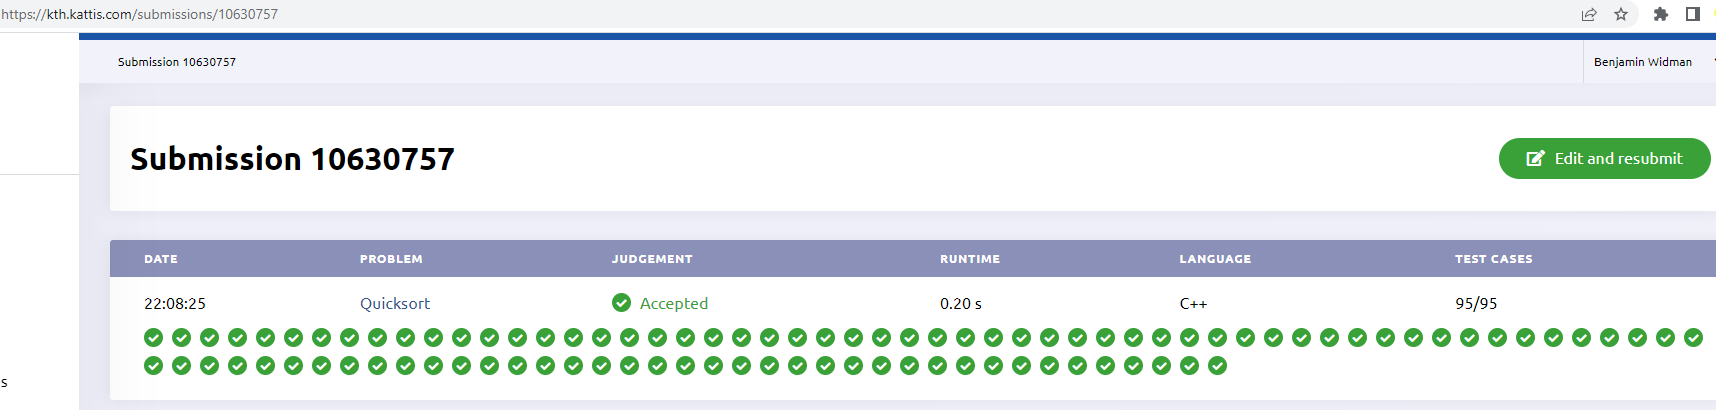
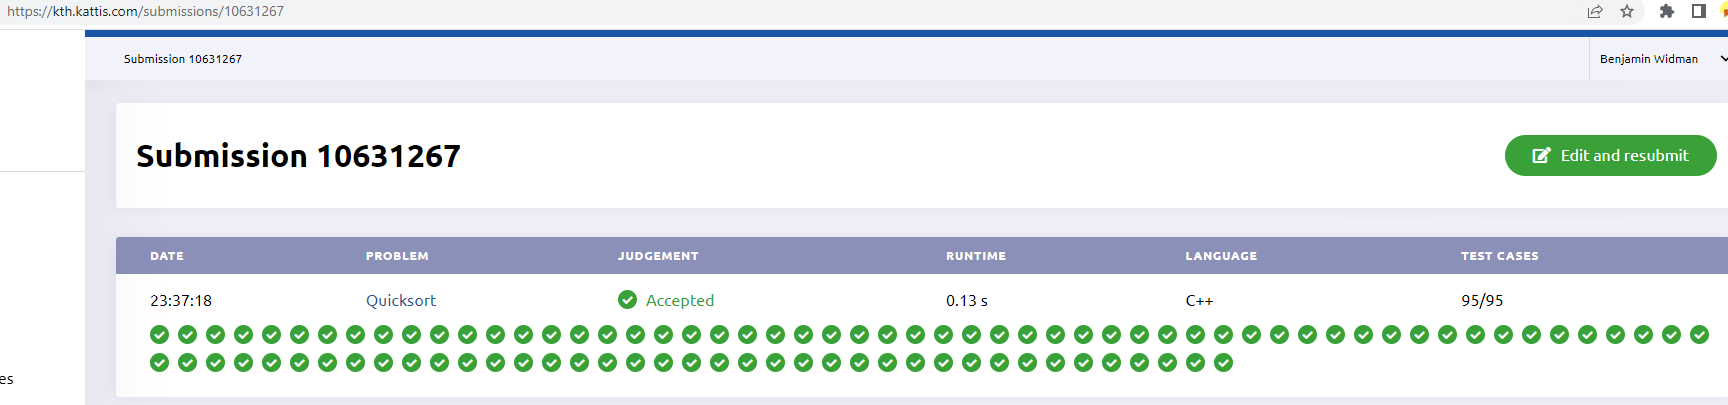
Faster input and use raw array

diff --git a/quicksort.cpp b/quicksort.cpp
@@ -1,28 +1,12 @@
 #include <iostream>
-#include <string>
-#include <sstream>
-#include <vector>
-#include <cmath>
 
-// Splits string with space seperated numbers
-// Doesn't work with multiple spaces in between numbers or space in beginning (i.e. application specific)
-void split(std::vector<int>& values, const std::string& string) {
-    values.reserve((string.length() + 1) / 2);
-    std::stringstream ss(string);
-    std::string item;
-
-    while (getline(ss, item, ' ')) {
-        values.push_back(stoi(item));
-    }
-}
-
-void swap(std::vector<int>& list, int index1, int index2) {
+void swap(int list[], int index1, int index2) {
     int temp = list[index1];
     list[index1] = list[index2];
     list[index2] = temp;
 }
 
-void insertionSort(std::vector<int>& list, int lo, int hi) {
+void insertionSort(int list[], int lo, int hi) {
     // for (int i = lo + 1; i <= hi; i++) { // "Faster" version??
     //     int x = list[i];
     //     int j = i - 1;
@@ -46,7 +30,7 @@ int medianOf3(int a, int b, int c) {
         return c;
 }
 
-int ninther(std::vector<int>& list, int lo, int hi) {
+int ninther(int list[], int lo, int hi) {
     int third = int((hi - lo) / 3.0f);
     return medianOf3(
         medianOf3(list[lo], list[int((lo + third) / 2.0f)], list[lo + third]), // First third
@@ -55,11 +39,11 @@ int ninther(std::vector<int>& list, int lo, int hi) {
     );
 }
 
-int partition(std::vector<int>& list, int lo, int hi) {
+int partition(int list[], int lo, int hi) {
     // Choose pivot element
-    // int pivot = list[floor((hi + lo) / 2.0f)]; // Value in the middle
+    int pivot = list[int((hi + lo) / 2.0f)]; // Value in the middle
     // int pivot = medianOf3(list[lo], list[floor((hi + lo) / 2.0f)], list[hi]);
-    int pivot = ninther(list, lo, hi);
+    // int pivot = ninther(list, lo, hi);
 
     int left = lo - 1;
     int right = hi + 1;
@@ -76,7 +60,7 @@ int partition(std::vector<int>& list, int lo, int hi) {
     }
 }
 
-void quicksort(std::vector<int>& list, int lo, int hi) {
+void quicksort(int list[], int lo, int hi) {
     if (hi - lo < 32) {
         insertionSort(list, lo, hi);
     } else if (lo >= 0 && hi >= 0 && lo < hi) {
@@ -87,20 +71,24 @@ void quicksort(std::vector<int>& list, int lo, int hi) {
 }
 
 int main() {
-    std::string input;
-    std::getline(std::cin, input);
-
-    std::vector<int> values{};
-    split(values, input);
+    std::ios_base::sync_with_stdio(false);
+    std::cin.tie(NULL);
     
-    swap(values, 0, values.size() - 1); // Remove first value (list size) fast
-    values.pop_back();
+    int length;
+    std::cin >> length;
+    
+    int* values = new int[length];
+
+    int i = 0;
+    int value;
+    while (std::cin >> value)
+        values[i++] = value;
 
     // Sort list of numbers
-    quicksort(values, 0, values.size() - 1);
+    quicksort(values, 0, length - 1);
 
     // Print sorted list
-    for (int i = 0; i < values.size(); i++) {
+    for (int i = 0; i < length; i++) {
         std::cout << values[i] << " ";
     }
     std::cout << std::endl;
